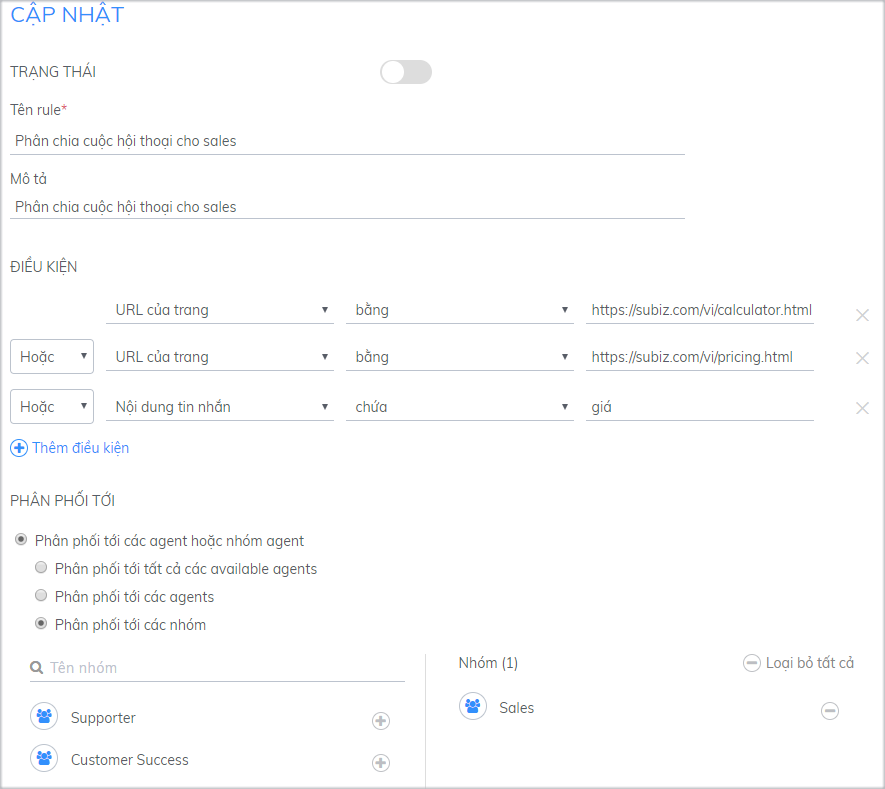
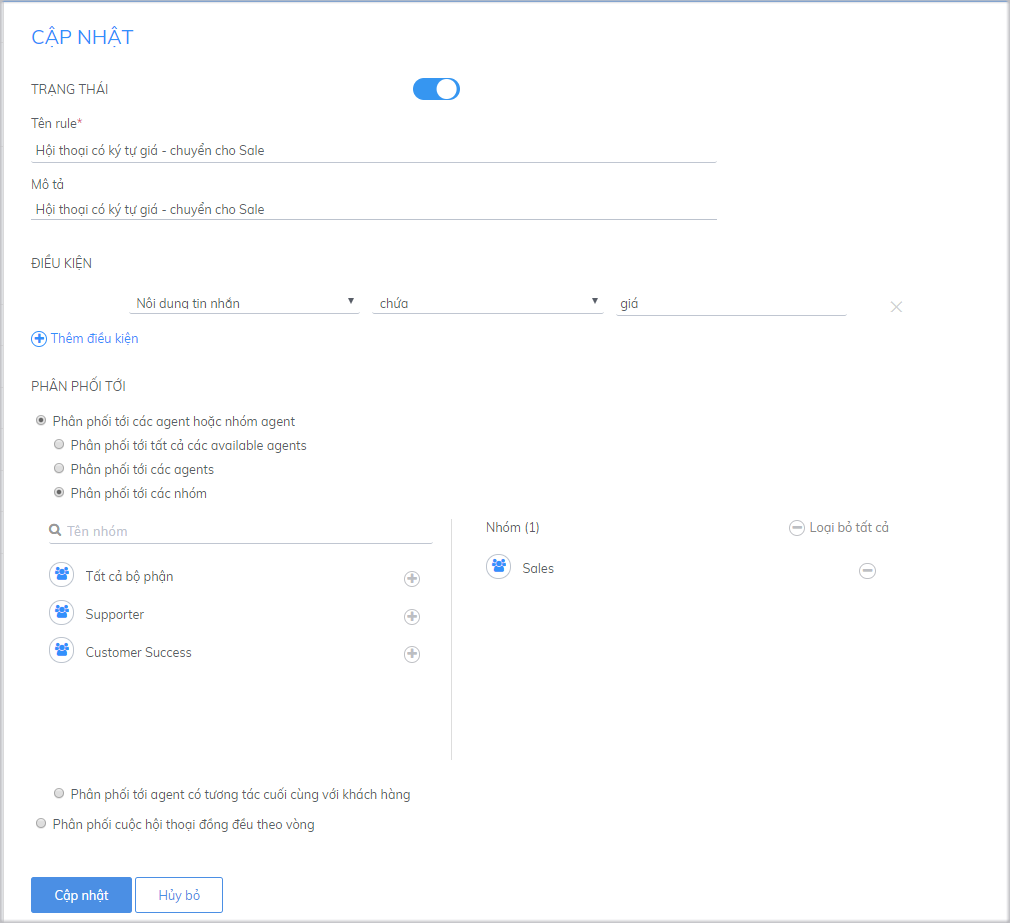
GitBook: [master] 7 pages and 24 assets modified

diff --git a/bat-dau-voi-subiz/trien-khai-hoat-dong/phan-phoi-cuoc-hoi-thoai/tao-rule-moi.md b/bat-dau-voi-subiz/trien-khai-hoat-dong/phan-phoi-cuoc-hoi-thoai/tao-rule-moi.md
@@ -1,6 +1,6 @@
 # Tạo Rule mới
 
-Tạo Rule mới **là tạo quy tắc mới** để thiết lập tự động phân phối cuộc hội thoại tới một hoặc một nhóm Agent của bạn.
+Rule là tính năng tự động phân phối cuộc hội thoại của khách hàng cho các agent theo các điều kiện cài đặt. Bạn nên dựa trên tình hình thực tế, cách thức quản lý, điều hành của doanh nghiệp, cách thức phân chia công việc của tư vấn viên để sáng tạo ra các Rule mới, giúp cho việc phân phối và xử lý các cuộc hội thoại được hiệu quả.
 
 Để tạo rule mới, bạn [đăng nhập tài khoản](https://app.subiz.com/login) và vào phần[ **Cài đặt &gt; Tài khoản &gt; Tin nhắn &gt; Rule &gt; Tạo Rule mới**](https://app.subiz.com/settings/add-rule)\*\*\*\*
 
@@ -15,18 +15,21 @@ Tạo Rule mới **là tạo quy tắc mới** để thiết lập tự động 
 
 ### Bước 2: Đặt các điều kiện cho Rule
 
-Điều kiện trong Rule là các tiêu chuẩn để một Rule được thực thi, giúp thiết lập các kịch bản phân phối cuộc hội thoại tới Agent một cách thông minh và hoạt động đúng lúc. Một rule chỉ được thực thi khi các điều kiện trong rule được đáp ứng.
+Điều kiện trong Rule là các tiêu chuẩn để một Rule được thực thi, giúp thiết lập các kịch bản phân phối cuộc hội thoại tới Agent một cách thông minh và hoạt động đúng lúc. 
 
 {% hint style="info" %}
-Lưu ý: Một rule chỉ được thực thi khi thông tin của cuộc hội thoại và user khởi tạo cuộc hội thoại đáp ứng các điều kiện đã được cài đặt \(một cuộc hội thoại chỉ được phân phối theo một rule\)
+**Lưu ý:** Một Rule **chỉ áp dụng cho một quy tắc phân phối hội thoại**. Tuy nhiên, bạn có thể kết hợp nhiều điều kiện để phân phối tới một hay nhóm agent tương ứng với điều kiện đó. 
 {% endhint %}
 
-**Cách thiết lập các điều kiện trong Rule:**
+  
+Cách thiết lập các điều kiện trong Rule: 
 
-* Click **Thêm điều kiện** để kết hợp nhiều điều kiện trong một rule.
-* Chọn **Và/ Hoặc** để xác định mối quan hệ giữa các điều kiện.
+* Click Thêm điều kiện để kết hợp nhiều điều kiện trong một rule.
+* Chọn Và/ Hoặc để xác định mối quan hệ giữa các điều kiện.
 
-![Thi&#x1EBF;t l&#x1EAD;p c&#xE1;c &#x111;i&#x1EC1;u ki&#x1EC7;n trong Rule](../../../.gitbook/assets/dieu-kien-trong-rule-1.png)
+  **Ví dụ:** Khách hỏi nội dung có ký tự “giá” hội thoại sẽ chuyển đến agent Linh Chi.
+
+![Kh&#xE1;ch h&#x1ECF;i n&#x1ED9;i dung c&#xF3; k&#xFD; t&#x1EF1; &#x201C;gi&#xE1;&#x201D; h&#x1ED9;i tho&#x1EA1;i s&#x1EBD; chuy&#x1EC3;n &#x111;&#x1EBF;n agent Linh Chi.](../../../.gitbook/assets/khach-hoi-bao-gia.png)
 
 **Bạn có thể chọn một hay nhiều điều kiện trong danh sách các điều kiện trong Rule dưới đây:**
 
@@ -48,30 +51,16 @@ Lưu ý: Một rule chỉ được thực thi khi thông tin của cuộc hội 
 
 ### Bước 3: Chọn cách thức phân phối các cuộc tương tác cho Agent
 
-Bây giờ, bạn chọn cách thức phân phối cuộc các cuộc thội thoại thỏa mãn các điều kiện đã đặt ở trên.
+Bây giờ, bạn chọn cách thức phân phối cuộc các cuộc hội thoại thỏa mãn các điều kiện đã đặt ở trên.
 
-![Ch&#x1ECD;n c&#xE1;ch th&#x1EE9;c ph&#xE2;n ph&#x1ED1;i c&#xE1;c cu&#x1ED9;c h&#x1ED9;i tho&#x1EA1;i](../../../.gitbook/assets/rule-assign.png)
+![Kh&#xE1;ch h&#x1ECF;i n&#x1ED9;i dung c&#xF3; k&#xFD; t&#x1EF1; &#x201C;gi&#xE1;&#x201D; h&#x1ED9;i tho&#x1EA1;i s&#x1EBD; chuy&#x1EC3;n &#x111;&#x1EBF;n agent Linh Chi.](../../../.gitbook/assets/khach-hoi-bao-gia-chuyen-cho-lc.png)
 
-#### **1. Phân phối tới các Agent hoặc nhóm Agent**
+{% hint style="info" %}
+* Rule là **điều kiện bắt buộc** để agent nhận được cuộc chat. Khi bạn xóa Rule mặc định nhưng không tạo Rule mới, tất cả các agent sẽ không nhận tương tác của khách hàng. Lúc này, tất cả hội thoại sẽ nằm trong mục **hội thoại chưa phân phối** trong phần **Hoạt động**.
+* Bạn có thể tạo nhiều Rule, quản lý các Rule và thay đổi Rule theo thời gian, cho phù hợp với số lượng Agent và cách quản lý của bạn.
+{% endhint %}
 
-Khi chọn cách phân phối tới các Agent hoặc nhóm Agent thì bất cứ Agent nào trong nhóm được phân phối đều có thể tham gia cùng lúc vào cuộc hội thoại.
 
-Bạn cần chọn một trong những kiểu phân phối sau:
 
-* _**Phân phối tới tất cả các available Agent:**_ phân phối cuộc hội thoại cho tất cả Agent đang được kích hoạt
-* _**Phân phối tới các agents:**_ Phân phối cuộc hội thoại cho một hoặc một số Agent cụ thể. Click để chọn Agent trong list các Agent, sau khi chọn bạn không muốn chọn phân phối cho Agent đó nữa thì nhấn vào nút loại bỏ bên tay phải. Ví dụ sau, đã chọn 02 Agent
 
-![Ch&#x1ECD;n Agent &#x111;&#x1B0;&#x1EE3;c ph&#xE2;n ph&#x1ED1;i cu&#x1ED9;c h&#x1ED9;i tho&#x1EA1;i](../../../.gitbook/assets/phan-phoi-toi-cac-agent.png)
-
-* _**Phân phối tới các nhóm:**_ Phân phối cuộc hội thoại cho nhóm Agent. Ví dụ dưới đây thì cuộc hội thoại đươc chọn phân phối cho nhóm bán hàng \(Sales\)
-
-![Ch&#x1ECD;n nh&#xF3;m Agent &#x111;&#x1B0;&#x1EE3;c ph&#xE2;n ph&#x1ED1;i cu&#x1ED9;c h&#x1ED9;i tho&#x1EA1;i](../../../.gitbook/assets/phan-phoi-toi-cac-nhom.png)
-
-* _**Phân phối tới agent có tương tác cuối cùng với user:**_ Phân phối cuộc hội thoại cho Agent có tương tác gần nhất với user \(khách hàng\)
-
-#### **2. Phân phối cuộc chat đồng đều theo vòng** {#2-phan-phoi-cuoc-chat-dong-deu-theo-vong}
-
-Các cuộc hội thoại sẽ được chia đều lần lượt theo vòng cho các Agent được chọn. Ví dụ, bạn chọn 3 agent trong danh sách agent, khi có 6 cuộc hội thoại, thì sẽ phân phối theo thứ tự 1,2,3 sau đó quay vòng 4,5,6
-
-![Ph&#xE2;n ph&#x1ED1;i cu&#x1ED9;c chat &#x111;&#x1ED3;ng &#x111;&#x1EC1;u theo v&#xF2;ng cho c&#xE1;c Agent &#x111;&#x1B0;&#x1EE3;c ch&#x1ECD;n](../../../.gitbook/assets/phan-phoi-dong-deu-theo-vong.png)
 

diff --git a/bat-dau-voi-subiz/trien-khai-hoat-dong/phan-phoi-cuoc-hoi-thoai/untitled.md b/bat-dau-voi-subiz/trien-khai-hoat-dong/phan-phoi-cuoc-hoi-thoai/untitled.md
@@ -1,0 +1,60 @@
+# Các ví dụ tự động phân phối hội thoại
+
+### Chỉ định tất cả hội thoại cho một tư vấn viên 
+
+Bạn có thể sử dụng Rule mặc định ban đầu nếu muốn chuyển hội thoại cho agent owner \(chủ tài khoản\). Trong trường hợp bạn muốn chuyển cho agent khác tư vấn khách hàng, bạn thao tác như sau:
+
+![Ch&#x1EC9; &#x111;&#x1ECB;nh t&#x1EA5;t c&#x1EA3; h&#x1ED9;i tho&#x1EA1;i cho m&#x1ED9;t t&#x1B0; v&#x1EA5;n vi&#xEA;n ](../../../.gitbook/assets/chi-dinh-hoi-thoai-den-mot-tu-van-vien.png)
+
+### Phân phối tới các Agent hoặc nhóm Agent
+
+Khi chọn cách phân phối tới các Agent hoặc nhóm Agent thì bất cứ Agent nào trong nhóm được phân phối đều có thể tham gia cùng lúc vào cuộc hội thoại.
+
+Bạn cần chọn một trong những kiểu phân phối sau:
+
+* _**Phân phối tới tất cả các available Agent:**_ phân phối cuộc hội thoại cho tất cả Agent đang log in tài khoản.
+
+![Ph&#xE2;n ph&#x1ED1;i t&#x1EDB;i t&#x1EA5;t c&#x1EA3; c&#xE1;c available Agent](../../../.gitbook/assets/phan-phoi-hoi-thoai-toi-cac-available-agent.png)
+
+* _**Phân phối tới các agent:**_ Bạn muốn hội thoại đến các tư vấn viên sẽ đều nhận được hội thoại để cùng hỗ trợ khách hàng. Chọn điều kiện Phân phối tới các agent và chọn tư vấn viên bạn muốn phân phối hội thoại. 
+
+![Ph&#xE2;n ph&#x1ED1;i t&#x1EDB;i c&#xE1;c agent](../../../.gitbook/assets/phan-phoi-hoi-thoai-toi-mot-vai-agent-nhat-dinh.png)
+
+* _**Phân phối tới các nhóm:**_ Khi bạn muốn phân phối hội thoại theo một nhóm nhất định, ví dụ: khách hỏi giá sản phẩm chuyển cho Sale, hỏi về bảo hành sản phẩm chuyển cho bộ phận kỹ thuật.
+
+![Ph&#xE2;n ph&#x1ED1;i t&#x1EDB;i c&#xE1;c nh&#xF3;m](../../../.gitbook/assets/phan-phoi-hoi-thoai-toi-mot-nhom-agent.png)
+
+* _**Phân phối tới agent có tương tác cuối cùng với user:**_ Phân phối cuộc hội thoại cho Agent có tương tác gần nhất với user \(khách hàng\).
+
+![Ph&#xE2;n ph&#x1ED1;i t&#x1EDB;i agent c&#xF3; t&#x1B0;&#x1A1;ng t&#xE1;c cu&#x1ED1;i c&#xF9;ng v&#x1EDB;i user](../../../.gitbook/assets/phan-phoi-toi-agent-co-tuong-tac-cuoi-cung-voi-user.png)
+
+### Phân phối hội thoại đồng đều cho các tư vấn viên
+
+Khi phân phối theo quy tắc này, hội thoại mới của khách hàng sẽ được phân bổ đều cho một vài agent hoặc một nhóm agent. Khi bạn có nhiều cuộc hội thoại, việc phân chia hội thoại sẽ giúp giảm áp lực và tăng tốc độ phản hồi của tư vấn viên. Bạn có thể cài đặt như sau:
+
+![Ph&#xE2;n ph&#x1ED1;i h&#x1ED9;i tho&#x1EA1;i &#x111;&#x1ED3;ng &#x111;&#x1EC1;u cho c&#xE1;c t&#x1B0; v&#x1EA5;n vi&#xEA;n](../../../.gitbook/assets/phan-phoi-hoi-thoai-theo-vong.png)
+
+### Phân phối hội thoại theo kênh tương tác 
+
+Bạn có nhiều kênh tương tác: Website, Email, Fanpage và muốn phân phối hội thoại cho tư vấn viên theo từng kênh để phân loại khách hàng nhưng vẫn quản lý được dữ liệu tập trung. Bạn thao tác như sau:
+
+![Ph&#xE2;n ph&#x1ED1;i h&#x1ED9;i tho&#x1EA1;i theo k&#xEA;nh t&#x1B0;&#x1A1;ng t&#xE1;c ](../../../.gitbook/assets/phan-phoi-hoi-thoai-theo-kenh-fanpage.png)
+
+### Phân phối hội thoại theo website cụ thể 
+
+Bạn có nhiều website và muốn giao mỗi website cho một tư vấn viên phụ trách để quản lý đội ngũ tư vấn viên và theo dõi hiệu quả làm việc của từng người trên trang quản trị. Bạn cài đặt như sau:
+
+![Ph&#xE2;n ph&#x1ED1;i h&#x1ED9;i tho&#x1EA1;i theo website c&#x1EE5; th&#x1EC3; ](../../../.gitbook/assets/phan-phoi-hoi-thoai-theo-url-cua-trang.png)
+
+### Phân phối hội thoại theo trang sản phẩm 
+
+Bạn có website bán hàng kinh doanh nhiều sản phẩm, bạn có thể phân quyền cho các tư vấn viên theo từng mặt hàng. Điều này sẽ giúp các tư vấn viên dễ dàng nắm bắt được nhu cầu khách hàng và tư vấn hiệu quả hơn. Bạn cài đặt Rule như sau:
+
+![Ph&#xE2;n ph&#x1ED1;i h&#x1ED9;i tho&#x1EA1;i theo trang s&#x1EA3;n ph&#x1EA9;m ](../../../.gitbook/assets/rule_san-pham.png)
+
+### Phân phối hội thoại theo vùng địa lý khách hàng 
+
+Khi doanh nghiệp của bạn có chi nhánh ở các tỉnh thành khác nhau và muốn phân chia hội thoại cho tư vấn viên ở địa phương đó hỗ trợ khách hàng, Subiz sẽ giúp bạn nhận diện và chuyển hội thoại đến đúng tư vấn viên khách cần gặp.
+
+![Ph&#xE2;n ph&#x1ED1;i h&#x1ED9;i tho&#x1EA1;i theo v&#xF9;ng &#x111;&#x1ECB;a l&#xFD; kh&#xE1;ch h&#xE0;ng ](../../../.gitbook/assets/rule_thanh-pho.png)
+

diff --git a/bat-dau-voi-subiz/trien-khai-hoat-dong/phan-phoi-cuoc-hoi-thoai/rule-phan-phoi-cuoc-hoi-thoai.md b/bat-dau-voi-subiz/trien-khai-hoat-dong/phan-phoi-cuoc-hoi-thoai/rule-phan-phoi-cuoc-hoi-thoai.md
@@ -1,12 +1,8 @@
 # Cách thức phân phối cuộc hội thoại
 
-**Với** [**Subiz**](https://subiz.com/vi/)**, các cuộc hội thoại sẽ được phân phối một cách tự động tới một hay một nhóm Agent, bằng cách bạn thiết lập và sử dụng các Rule**
+Rule là tính năng của [Subiz](https://subiz.com/) giúp bạn có thể phân phối cuộc hội thoại của khách hàng tới đúng agent phụ trách. Tại [Subiz](https://subiz.com/), bạn có thể phân phối Rule tự động tới một hay một nhóm agent. 
 
-Bạn có thể sử dụng Rule mặc định ban đầu, sử dụng thư viện Rule có sẵn hoặc tạo “Rule Mới” để thực hiện phân phối tự động các cuộc hội thoại sao cho phù hợp với nhu cầu thực tế của doanh nghiệp
-
-### **Sử dụng Rule mặc định ban đầu**
-
-Là Rule phân phối tất cả các cuộc tương tác của tất cả các User \(khách hàng\) cho Agent chủ tài khoản \(Agent owner\) ngay sau khi tích hợp một hay nhiều kênh tương tác cho tài khoản [Subiz ](https://subiz.com/vi/)của bạn. **Đây là rule mặc định,** [**Subiz** ](https://subiz.com/vi/)**đã thiết lập ban đầu cho mọi tài khoản.**
+Với các tài khoản mới, Subiz đã thiết lập sẵn **Rule mặc định - Default to owner**. Rule này phân phối tất cả các cuộc hội thoại của khách hàng cho Agent chủ tài khoản \(Agent owner\) ngay sau khi tích hợp kênh tương tác vào tài khoản Subiz của bạn.
 
 ![Rule m&#x1EB7;c &#x111;&#x1ECB;nh ban &#x111;&#x1EA7;u](../../../.gitbook/assets/rule-mac-dinh-1.jpg)
 
@@ -16,32 +12,7 @@ Là Rule phân phối tất cả các cuộc tương tác của tất cả các 
 
 Bạn có thể **chỉnh sửa các điều kiện, cách thức phân phối** trong rule mặc định này để tạo ra một rule mới, ví dụ thêm Agent được nhận cuộc chat…. Xem hướng dẫn chi tiết [tạo rule mới](https://subiz.gitbook.io/subiz-document/bat-dau-voi-subiz/untitled/untitled/untitled#buoc-1-dat-ten-va-mo-ta-rule) và cách thức chỉnh sửa.
 
-### **Sử dụng Thư viện Rule có sẵn**
-
-Thư viện Rule là danh sách các Rule mà [Subiz](https://subiz.com/vi/) đã tạo sẵn cho bạn, bạn có thể chọn Rule phù hợp với cách thức hoạt động của doanh nghiệp, hoặc chỉnh sửa thêm để nhanh chóng tạo ra các Rule thích hợp nhất với doanh nghiệp của mình.
-
-Để sử dụng rule có sẵn, bạn làm theo các bước sau:
-
-[1. Đăng nhập tài khoản](http://widgetv4.subiz.com/)
-
-2. Vào [**Cài đặt &gt; Tài khoản &gt; Tin nhắn &gt; Rule**](https://app.subiz.com/settings/rule-setting)\*\*\*\*
-
-3. Chọn **Thư viện Rule**
-
-4. Chọn biểu tượng nhập tại rule mà bạn muốn sử dụng
-
-![S&#x1EED; d&#x1EE5;ng Th&#x1B0; vi&#x1EC7;n rule](../../../.gitbook/assets/import-rule.png)
-
-5. Chỉnh sửa Rule nếu muốn và chọn **Tạo rule**
-
-### **Tạo Rule mới**
-
-Bạn nên dựa trên tình hình thực tế của doanh nghiệp, như số lượng website,[ fanpage](https://subiz.com/vi/facebook-messenger.html%20), [email](https://subiz.com/vi/email.html%20) đã tích hợp, số lượng Agent đang sử dụng và cách thức quản lý, điều hành của doanh nghiệp để sáng tạo ra các Rule mới, giúp cho việc phân phối và xử lý các cuộc hội thoại được hiệu quả.
-
-{% hint style="info" %}
-* Khi bạn có nhiều Agent, không tạo Rule để phân phối tương tác, các Agent khác sẽ không nhận được thông báo yêu cầu chat từ khách hàng, lúc này các yêu cầu chat đều chuyển tới cho Agent chủ tài khoản. Lúc đầu bạn có thể chọn các Rule trong Thư viện Rule mà [Subiz](https://subiz.com/vi/) đã tạo sẵn.
-* Bạn có thể tạo nhiều Rule, [quản lý các Rule](https://subiz.gitbook.io/subiz-document/bat-dau-voi-subiz/untitled/untitled/quan-ly-danh-sach-rule) và thay đổi Rule theo thời gian, cho phù hợp với số lượng Agent và cách quản lý của bạn.
-{% endhint %}
+\*\*\*\*
 
 
 

diff --git a/bat-dau-voi-subiz/thiet-lap-moi-truong-tuong-tac/tich-hop-subiz-len-website/tuy-chinh-hinh-anh-bubble-button.md b/bat-dau-voi-subiz/thiet-lap-moi-truong-tuong-tac/tich-hop-subiz-len-website/tuy-chinh-hinh-anh-bubble-button.md
@@ -1,2 +1,53 @@
 # Tùy chỉnh hình ảnh bubble button
 
+### 1. Bubble button là gì?
+
+Bubble button là hình ảnh kêu gọi và thu hút khách hàng chat trực tuyến trên cửa sổ Subiz chat. 
+
+Mỗi doanh nghiệp có thể chủ động thiết kế hình ảnh bubble button để truyền tải thông điệp riêng và mang đến cho khách hàng những trải nghiệm thú vị khi truy cập website.
+
+Bạn có thể lựa chọn sử dụng bubble button từ thư viện button của Subiz, hoặc tùy chọn hình ảnh button bất kỳ khác và tải lên Subiz.
+
+Cách tùy chỉnh bubble button: Đăng nhập Subiz qua link [App.subiz.com &gt; Cài đặt &gt; Tài khoản &gt; Cửa sổ hội thoại &gt; Tùy chỉnh bubble button](https://app.subiz.com/settings/widget-setting)\*\*\*\*
+
+### **2. Sử dụng thư viện button của Subiz**
+
+Bạn chọn hình ảnh trong Thư viện button và Lưu thay đổi là sử dụng được luôn.
+
+### **3. Sử dụng button bất kỳ**
+
+Để sử dụng button bất kỳ, bạn cần có một hình ảnh button theo mong muốn của bạn giúp tạo ấn tượng riêng dành cho khách hàng. Kích thước chuẩn của hình ảnh button là 240 x 120 px.
+
+Hướng dẫn 3 bước sử dụng bất kỳ button khác như sau:
+
+**Bước 1**: Để tải hình ảnh button bất kỳ khác  
+&gt; Chọn Tùy chỉnh bubble button   
+&gt; Tải lên button tùy chỉnh   
+&gt; Chọn tệp hoặc Kéo tệp để tải lên   
+&gt; Nhấp "X" để thoát
+
+**Bước 2**: Tối ưu hiển thị hình ảnh button  
+&gt; Chọn Tùy chỉnh CSS   
+&gt; Sao chép và dán đoạn mã CCS ngay phía sau đoạn mã có chứa /\* END: BUTTON CHAT \*/   
+&gt; Lưu thay đổi 
+
+| Kiểu cửa sổ hội thoại Thu gọn  | Kiểu cửa sổ hội thoại Mở rộng |
+| :--- | :--- |
+| .widget\_mini .close-widget-icon {display: none;}.button-chat .avatar-preview img {display: none;}.button-chat {box-shadow: none;background-color: transparent !important;}  | .widget\_full .close-widget-icon {display: none;}.button-chat .avatar-preview img {display: none;}.button-chat {box-shadow: none;background-color: transparent !important;}  |
+|  |  |
+
+{% hint style="info" %}
+Lưu ý: Bạn cần xác định đúng **CỬA SỔ HỘI THOẠI** đang sử dụng **KIỂU**: **Thu gọn** hay **Mở rộng**, để chọn đúng mã CSS.
+{% endhint %}
+
+**Bước 3**: Lưu thay đổi tại Cửa sổ hội thoại
+
+
+
+### 3. Một số mã CSS tối ưu hiển thị button bất kỳ khác 
+
+  
+****
+
+
+

diff --git a/bat-dau-voi-subiz/trien-khai-hoat-dong/phan-phoi-cuoc-hoi-thoai/quan-ly-danh-sach-rule.md b/bat-dau-voi-subiz/trien-khai-hoat-dong/phan-phoi-cuoc-hoi-thoai/quan-ly-danh-sach-rule.md
@@ -8,9 +8,13 @@ Bạn cần quan tâm và thực hiện 3 vấn đề sau:
 
 ### **Sắp xếp thứ tự của rule**
 
-Các rule sẽ hoạt động **theo thứ tự ưu tiên từ trên xuống dưới**.
+Mỗi Rule sẽ đáp ứng cho một quy tắc hội thoại. Bạn có thể cài đặt nhiều Rule theo nhu cầu phân phối của từng doanh nghiệp. Các rule được cài đặt sẽ **hoạt động theo thứ tự ưu tiên từ trên xuống dưới**.   
+**Ví dụ:** bạn cài đặt 2 Rule:
 
-Ví dụ, khi có một cuộc hội thoại mới, nếu thỏa mãn điều kiện của rule 1, cuộc hội thoại sẽ được phân phối cho Agent/ nhóm Agent của rule 1. Nếu chưa thỏa mãn, hệ thống tiếp tục lần lượt kiểm tra điều kiện của rule 2, 3 …
+* **Rule 1:** Phân phối tới agent có tương tác cuối cùng với user.
+* **Rule 2:** Phân phối hội thoại theo vòng.
+
+Khi có hội thoại mới, Rule sẽ ưu tiên phân phối tới agent đã có tương tác trước đó, nếu không có agent tương ứng, hội thoại sẽ chuyển tới các agent theo vòng. Để Rule hoạt động theo đúng quy tắc bạn mong muốn, bạn click vào **Sắp xếp lại**.
 
 {% hint style="info" %}
 _Lưu ý: Chỉ rule trong trạng thái Active mới có thể hoạt động_
@@ -18,7 +22,7 @@ _Lưu ý: Chỉ rule trong trạng thái Active mới có thể hoạt động_
 
 Để sắp xếp lại thứ tự các rule, bạn click vào **Sắp xếp lại**.
 
-![Ch&#x1ECD;n s&#x1EAF;p x&#x1EBF;p l&#x1EA1;i Rule](../../../.gitbook/assets/sap-xep-lai-rule%20%281%29.png)
+![Ch&#x1ECD;n s&#x1EAF;p x&#x1EBF;p l&#x1EA1;i Rule](../../../.gitbook/assets/sap-xep-lai-rule%20%283%29.png)
 
 Sử dụng chuột kéo thả để sắp xếp mức độ ưu tiên của các rule theo mong muốn, sau đó chọn **Lưu thay đổi**.
 
@@ -28,7 +32,7 @@ Sử dụng chuột kéo thả để sắp xếp mức độ ưu tiên của cá
 
 * Chọn biểu tượng sửa tương ứng của rule muốn chỉnh sửa
 
-![Ch&#x1ECD;n v&#xE0; ch&#x1EC9;nh s&#x1EED;a Rule](../../../.gitbook/assets/chinh-sua-rule-1024x243.png)
+![Ch&#x1ECD;n v&#xE0; ch&#x1EC9;nh s&#x1EED;a Rule](../../../.gitbook/assets/chinh-sua-rule.png)
 
 * Thay đổi lại thông tin trên trang cập nhật
 

diff --git a/SUMMARY.md b/SUMMARY.md
@@ -28,6 +28,7 @@
     * [Phân phối cuộc hội thoại](bat-dau-voi-subiz/trien-khai-hoat-dong/phan-phoi-cuoc-hoi-thoai/README.md)
       * [Cách thức phân phối cuộc hội thoại](bat-dau-voi-subiz/trien-khai-hoat-dong/phan-phoi-cuoc-hoi-thoai/rule-phan-phoi-cuoc-hoi-thoai.md)
       * [Tạo Rule mới](bat-dau-voi-subiz/trien-khai-hoat-dong/phan-phoi-cuoc-hoi-thoai/tao-rule-moi.md)
+      * [Các ví dụ tự động phân phối hội thoại](bat-dau-voi-subiz/trien-khai-hoat-dong/phan-phoi-cuoc-hoi-thoai/untitled.md)
       * [Quản lý danh sách Rule](bat-dau-voi-subiz/trien-khai-hoat-dong/phan-phoi-cuoc-hoi-thoai/quan-ly-danh-sach-rule.md)
     * [Gắn Tag cuộc hội thoại](bat-dau-voi-subiz/trien-khai-hoat-dong/gan-tag-cuoc-hoi-thoai.md)
   * [Làm việc trên Subiz](bat-dau-voi-subiz/lam-viec-tren-subiz/README.md)

diff --git a/bat-dau-voi-subiz/trien-khai-hoat-dong/phan-phoi-cuoc-hoi-thoai/README.md b/bat-dau-voi-subiz/trien-khai-hoat-dong/phan-phoi-cuoc-hoi-thoai/README.md
@@ -14,6 +14,10 @@ Khi đó:
 
 {% page-ref page="tao-rule-moi.md" %}
 
+* Bạn có thể tham khảo một vài ví dụ cài đặt Rule như sau:
+
+{% page-ref page="untitled.md" %}
+
 * Ngoài ra, bạn cũng sẽ biết cách sử dụng và quản lý các Rule một cách hiệu quả:
 
 {% page-ref page="quan-ly-danh-sach-rule.md" %}
